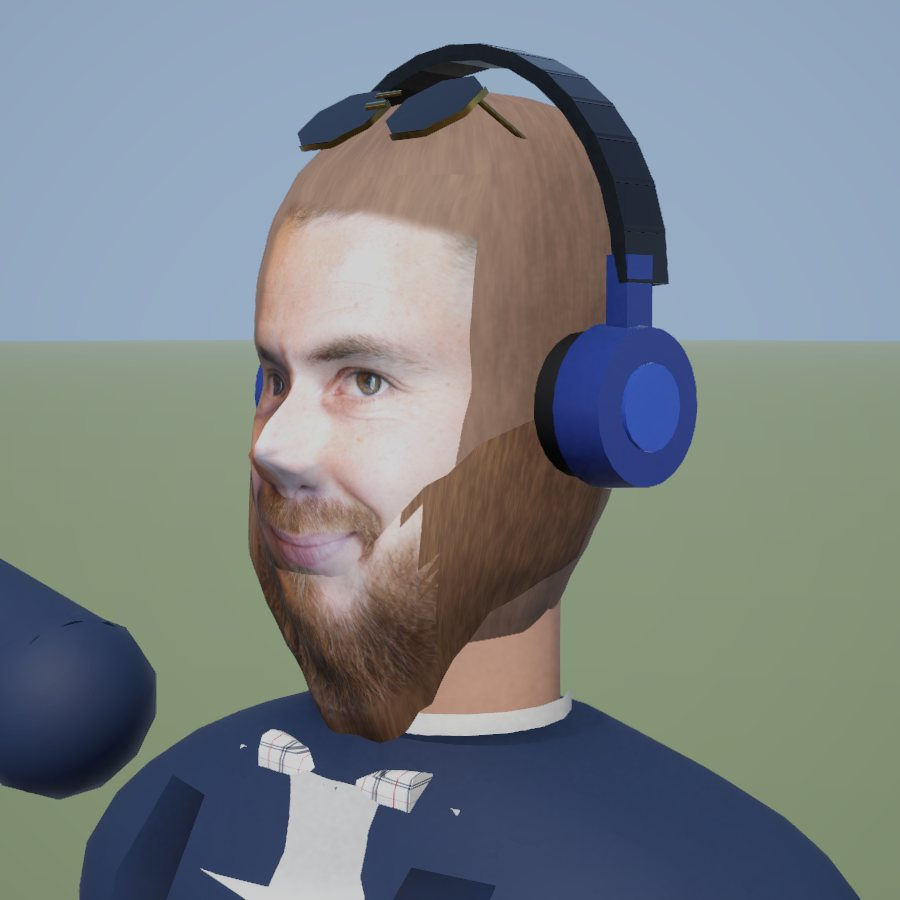
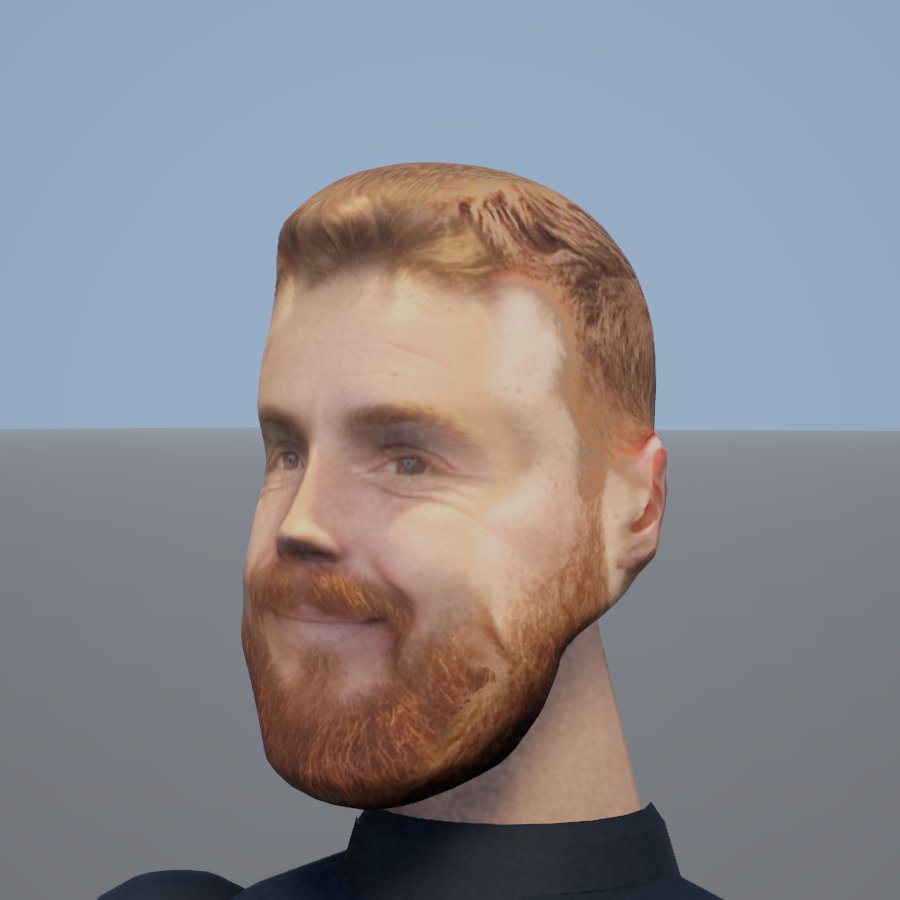
Version 1.2 : Arnaud à moto, nouveau visage, pull OxygenStream

diff --git a/index.html b/index.html
@@ -39,7 +39,7 @@
       <a class="bouton principal" href="telecharger.html"><span>Télécharger le jeu</span></a>
       <a class="bouton second" href="#jeu"><span>Découvrir</span></a>
     </div>
-    <p class="petit">Gratuit · Windows 10 et 11 · 153 Mo · clavier ou manette</p>
+    <p class="petit">Gratuit · Windows 10 et 11 · 154 Mo · clavier ou manette</p>
   </div>
 </div>
 
@@ -85,14 +85,15 @@
     <h2>Sur ta <em>route</em></h2>
     <p class="chapo">Tu ne seras pas seul. Certains te rapportent des points, d'autres veulent ta peau.</p>
     <div class="grille g4">
-      <div class="carte portrait"><img src="images/arnaud-tete.jpg" alt="Arnaud l'auto-stoppeur" loading="lazy"><div class="texte"><span class="etiquette rouge">Auto-stoppeur</span><h3>Arnaud</h3><p>Costume, casque sur les oreilles et pouce levé. Il traverse sans regarder. Saute par-dessus pour 400 points, ou ne freine pas pour gagner 3 cœurs.</p></div></div>
+      <div class="carte portrait"><img src="images/arnaud-tete.jpg" alt="Arnaud" loading="lazy"><div class="texte"><span class="etiquette rouge">Motard</span><h3>Arnaud</h3><p>Barbe rousse, pull OxygenStream et aucun respect. Il remonte à ta hauteur à moto, te regarde et te fait un doigt d'honneur. Renverse-le d'un coup de volant pour gagner 3 cœurs, ou saute par-dessus pour 400 points.</p></div></div>
       <div class="carte"><img src="images/tsuki.jpg" alt="Tsuki le chien" loading="lazy"><div class="texte"><span class="etiquette">Chien</span><h3>Tsuki</h3><p>Il zigzague sur la route. Saute par-dessus Tsuki pour 1 000 points d'un coup.</p></div></div>
       <div class="carte"><img src="images/police.jpg" alt="La voiture de police" loading="lazy"><div class="texte"><span class="etiquette bleu">Poursuite</span><h3>La police</h3><p>Elle te colle, te percute et te pousse vers le vide. Un seul moyen de la semer : sauter un obstacle pour qu'elle le prenne. Plus tu résistes, plus tu as d'étoiles et de barrages.</p></div></div>
       <div class="carte"><img src="images/camion.jpg" alt="Un camion" loading="lazy"><div class="texte"><span class="etiquette">Circulation</span><h3>Camions et voitures</h3><p>Dans ton sens et en face. Elles changent de voie, et en ville certaines te coupent la route aux carrefours.</p></div></div>
     </div>
     <div style="margin-top:22px" class="grille g2 galerie">
-      <figure><img src="images/arnaud-stop.jpg" alt="Arnaud fait du stop" loading="lazy" style="aspect-ratio:3/4;object-position:center top"><figcaption>Arnaud fait du stop au bord de la route.</figcaption></figure>
-      <figure><img src="images/objets.jpg" alt="Les objets du jeu" loading="lazy" style="aspect-ratio:3/4"><figcaption>Pièces, nitro, cœurs, tremplins, et tout ce qu'il vaut mieux sauter : barrières, cônes, troncs, bottes de paille.</figcaption></figure>
+      <figure><img src="images/jeu-arnaud.jpg" alt="Arnaud à moto en jeu" loading="lazy"><figcaption>Arnaud te nargue. Son portrait s'affiche en gros plan à l'écran.</figcaption></figure>
+      <figure><img src="images/arnaud-stop.jpg" alt="Arnaud à moto" loading="lazy"><figcaption>Pull OxygenStream, gros symbole dans le dos.</figcaption></figure>
+      
     </div>
   </div>
 </section>
@@ -101,6 +102,7 @@
   <div class="contenu">
     <h2>Les <em>commandes</em></h2>
     <p class="chapo">Au clavier ou à la manette.</p>
+    <figure class="galerie" style="margin-bottom:34px"><img src="images/objets.jpg" alt="Les objets du jeu" loading="lazy"><figcaption>Pièces, nitro, cœurs, tremplins, et tout ce qu'il vaut mieux éviter : barrières, cônes, troncs, bottes de paille.</figcaption></figure>
     <div class="touches">
       <span><kbd>←</kbd> <kbd>→</kbd></span><span>Diriger. La voiture file tout droit si tu ne tournes pas.</span>
       <span><kbd>Espace</kbd></span><span>Sauter. Un 2e appui en l'air fait un double saut.</span>

diff --git a/telecharger.html b/telecharger.html
@@ -4,9 +4,9 @@
 <meta charset="utf-8">
 <meta name="viewport" content="width=device-width, initial-scale=1">
 <title>Télécharger Crash Ta Race pour Windows</title>
-<meta name="description" content="Télécharge Crash Ta Race pour Windows : un seul fichier ZIP de 153 Mo, rien à installer. Mode d'emploi en 3 étapes.">
+<meta name="description" content="Télécharge Crash Ta Race pour Windows : un seul fichier ZIP de 154 Mo, rien à installer. Mode d'emploi en 3 étapes.">
 <meta property="og:title" content="Télécharger Crash Ta Race">
-<meta property="og:description" content="Jeu de course arcade gratuit pour Windows. Un ZIP de 153 Mo, rien à installer.">
+<meta property="og:description" content="Jeu de course arcade gratuit pour Windows. Un ZIP de 154 Mo, rien à installer.">
 <meta property="og:image" content="https://toinan2000.github.io/crash-ta-race/images/jeu-campagne.jpg">
 <link rel="icon" href="images/icone.png">
 <link rel="preconnect" href="https://fonts.googleapis.com">
@@ -36,7 +36,7 @@
     <div class="boutons">
       <a class="bouton principal" id="dl" href="https://github.com/Toinan2000/crash-ta-race/releases/latest/download/CrashTaRace-Windows.zip"><span>Télécharger pour Windows</span></a>
     </div>
-    <p class="petit">CrashTaRace-Windows.zip · 153 Mo · Windows 10 et 11 (64 bits) · gratuit</p>
+    <p class="petit">CrashTaRace-Windows.zip · 154 Mo · Windows 10 et 11 (64 bits) · gratuit</p>
   </div>
 </div>
 
@@ -81,8 +81,8 @@
     <h3 style="margin-top:40px">Fichier</h3>
     <dl class="fiche">
       <dt>Nom</dt><dd><code>CrashTaRace-Windows.zip</code></dd>
-      <dt>Taille</dt><dd>153 220 964 octets (153 Mo)</dd>
-      <dt>Empreinte SHA-256</dt><dd><code>2003b5d1e97541641d3163521dc118c8ecab511bd866bc055bd8a4cd3bacbf66</code></dd>
+      <dt>Taille</dt><dd>153 672 077 octets (154 Mo)</dd>
+      <dt>Empreinte SHA-256</dt><dd><code>c4759e0bd452518b6d64d9cccfbcfd816eeae4bd4d59e621f6b30bee6c78d144</code></dd>
       <dt>Vérifier</dt><dd>Dans PowerShell : <code>Get-FileHash .\CrashTaRace-Windows.zip</code></dd>
       <dt>Lien direct</dt><dd><a href="https://github.com/Toinan2000/crash-ta-race/releases/latest/download/CrashTaRace-Windows.zip">github.com/Toinan2000/crash-ta-race/releases/latest</a></dd>
     </dl>
